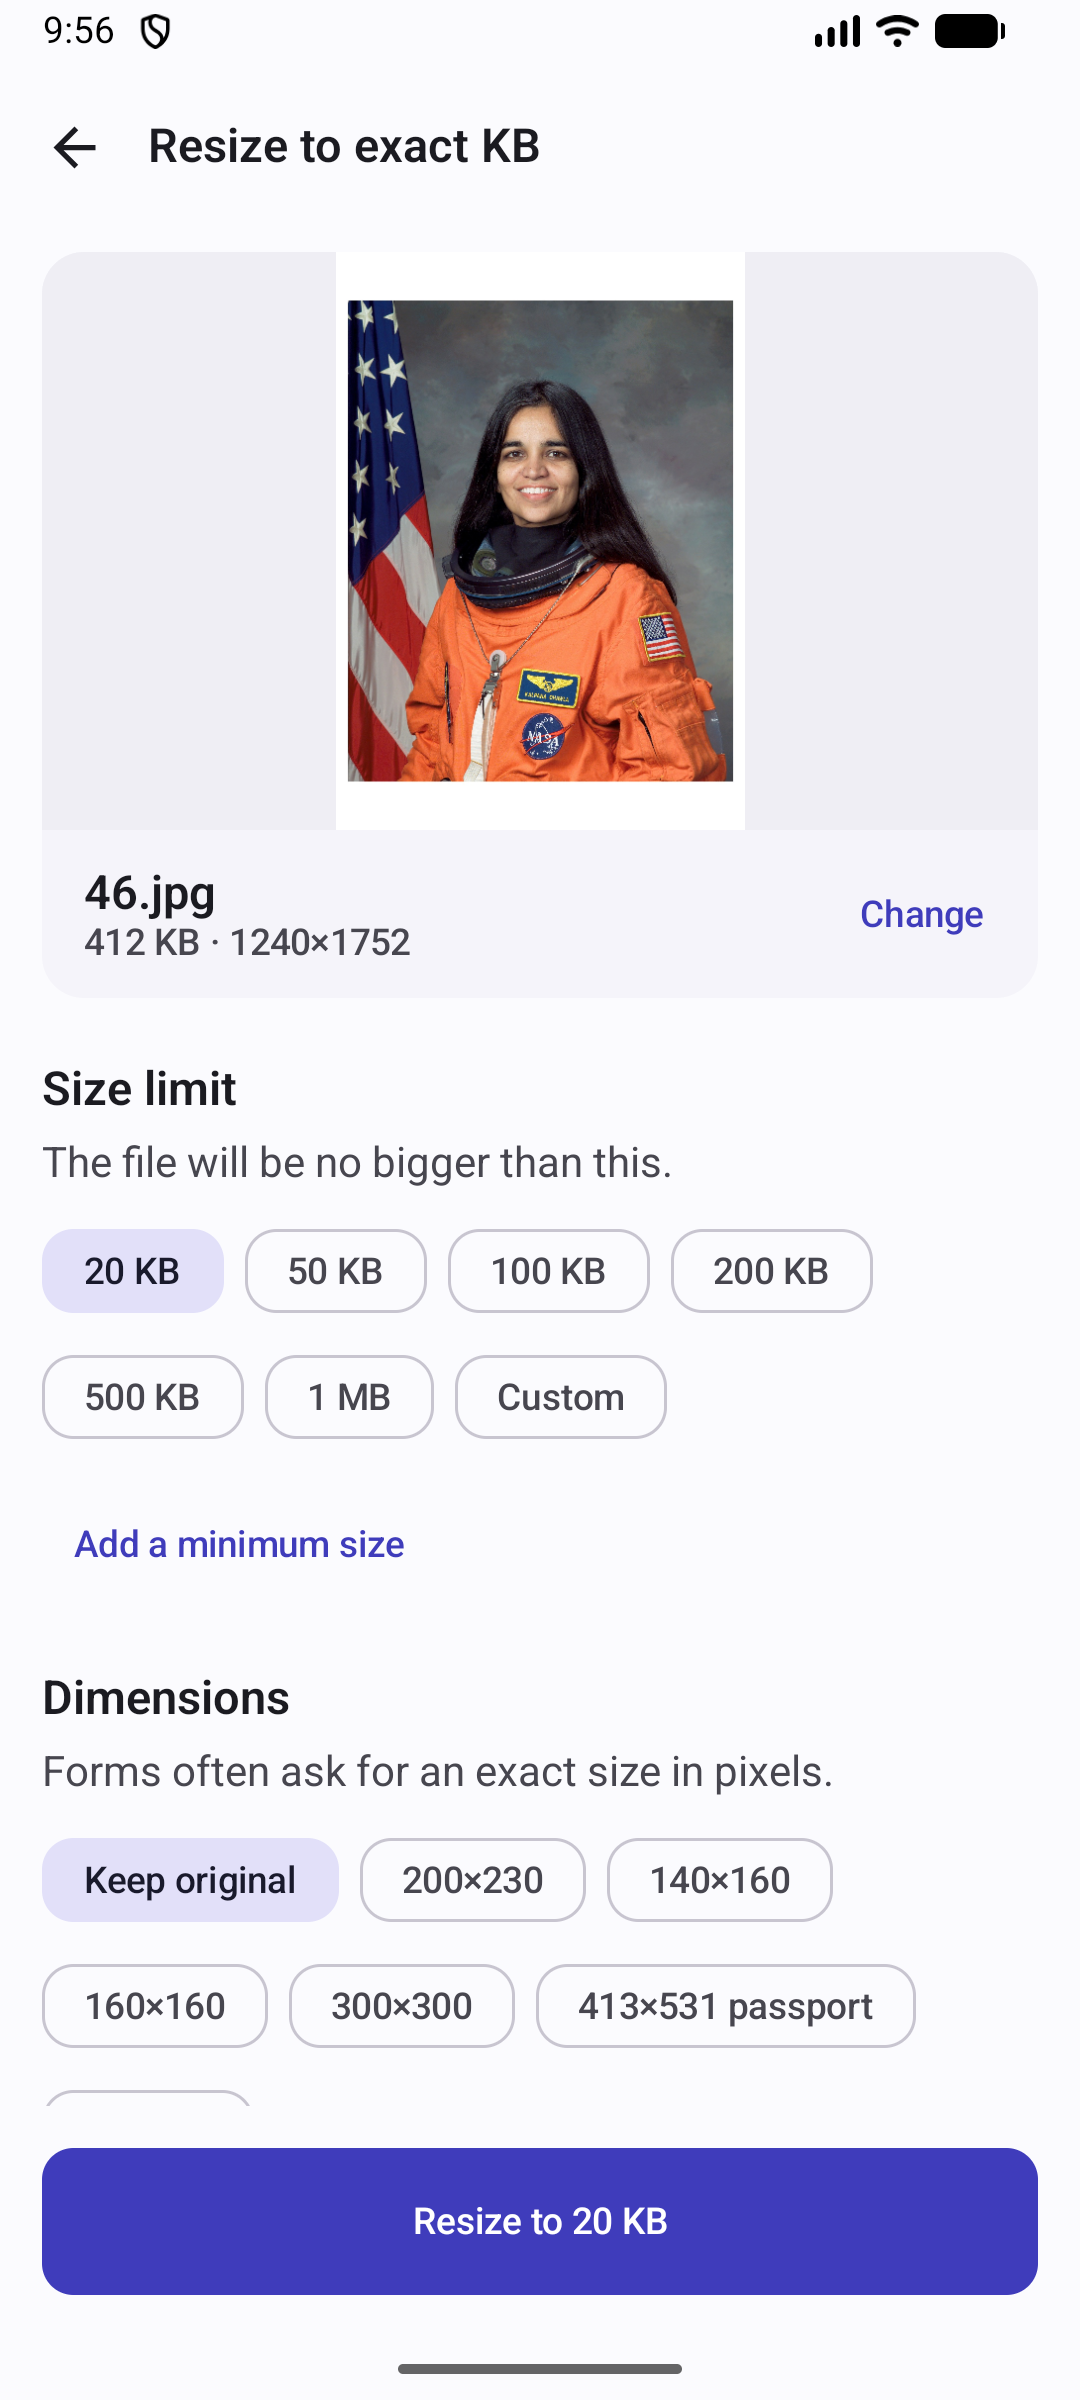
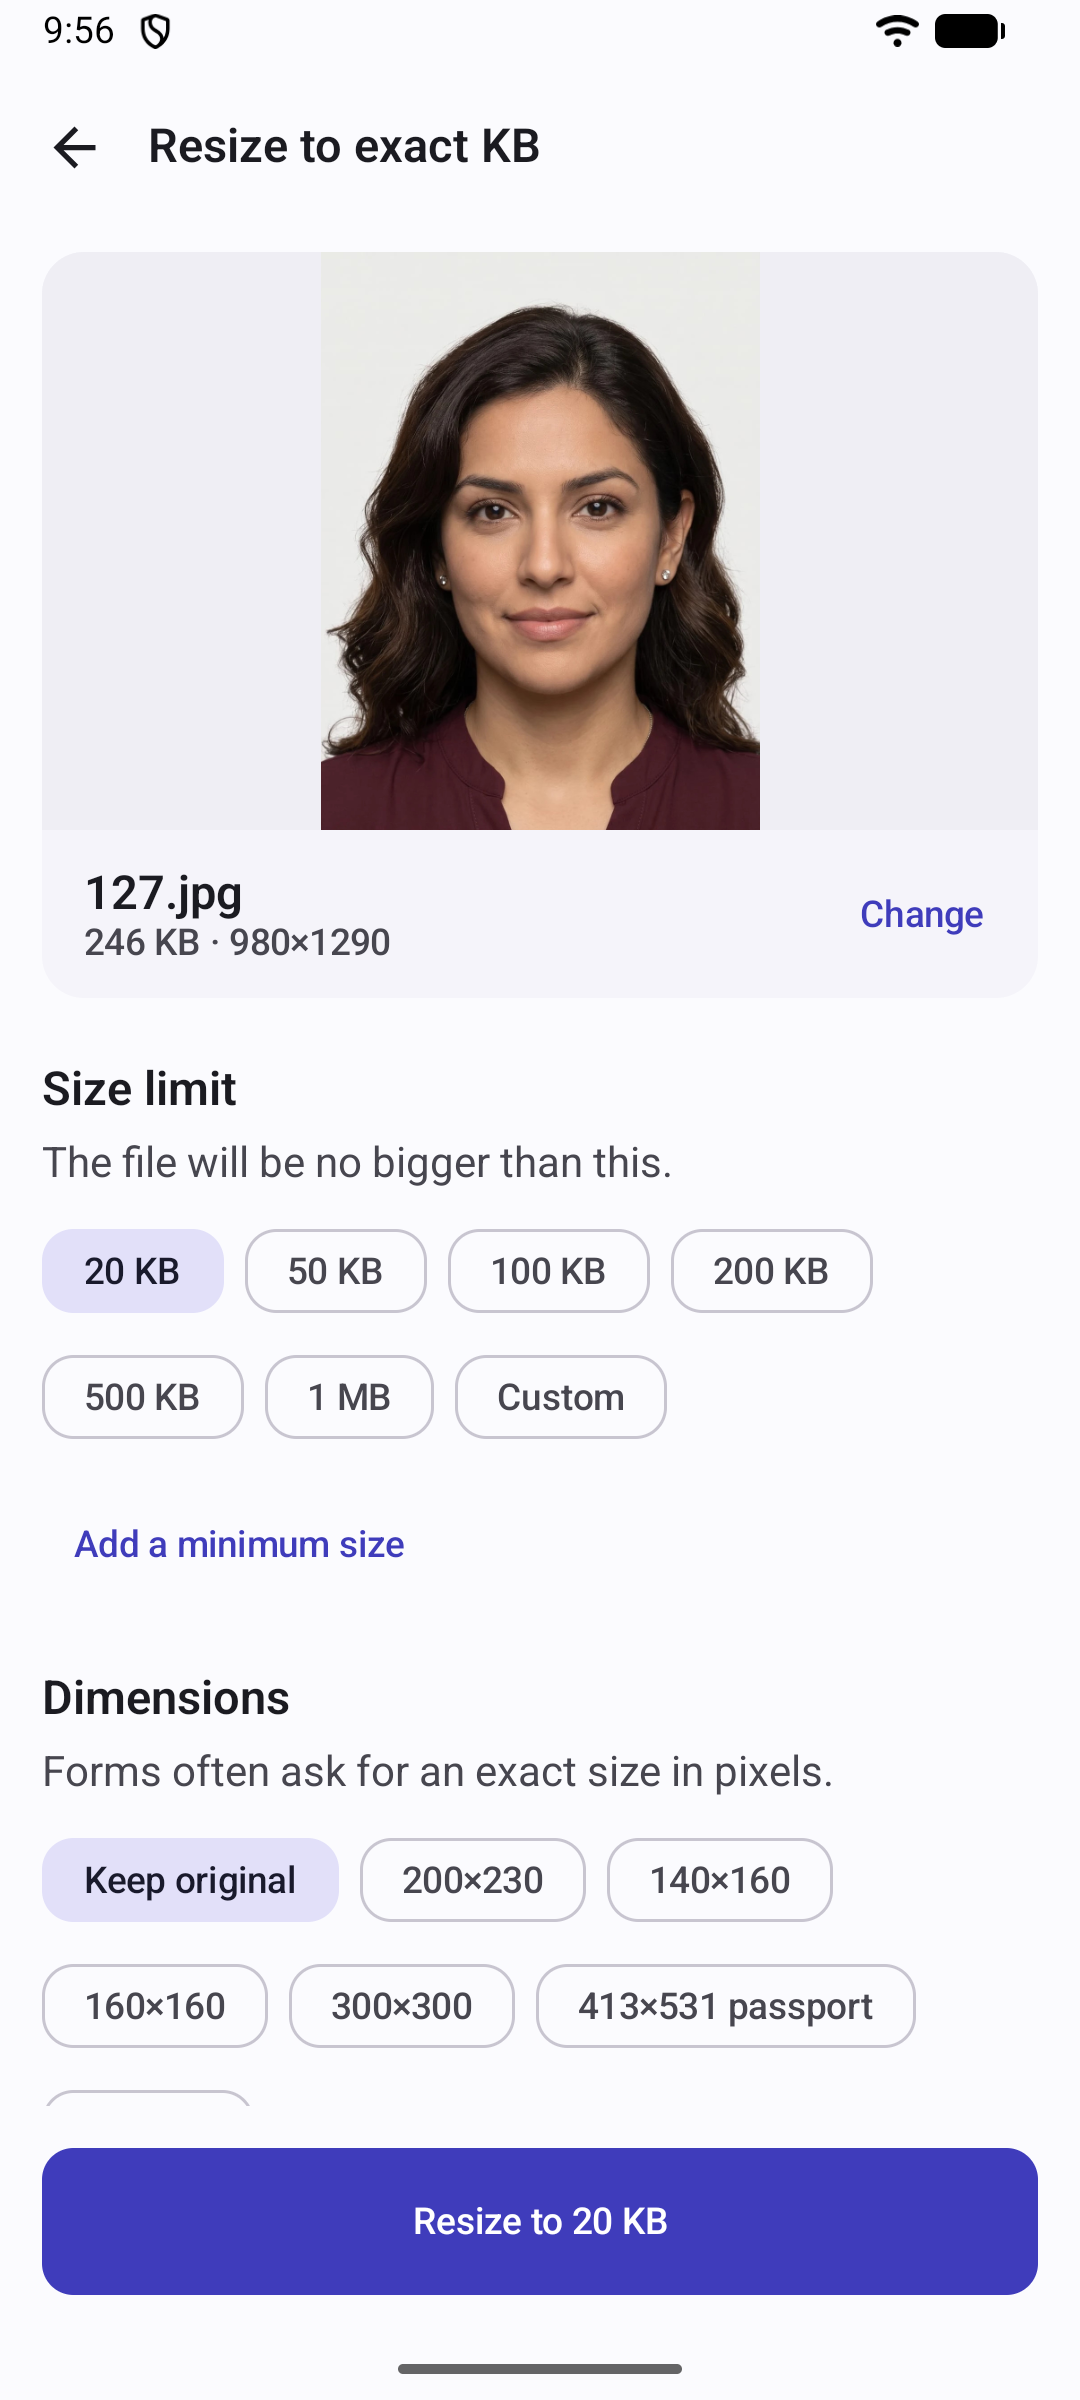
Retake store screenshots 2 and 3 without a famous face
They showed NASA's official portrait of Kalpana Chawla. The photograph is
public domain, but a well-known person's face advertising an app invites
a complaint. The new captures use a portrait the owner generated with
Gemini (corner mark cropped off), run through FormKit 1.0.3: 246 KB down
to 19 KB under a 20 KB limit.

Changed region(s): [[0.275, 0.0938, 0.7028, 0.3438], [0.0611, 0.3438, 0.3667, 0.4062], [0.7639, 0.0, 0.7944, 0.0312]]

diff --git a/docs/store-listing.md b/docs/store-listing.md
@@ -101,3 +101,10 @@ Wikimedia Commons, under CC0: no copyright, and no named person whose likeness t
 trading on. Any replacement needs both of those, not only a free licence — a store listing is
 advertising, which is where a photo of a recognisable person causes trouble even when the photograph
 itself is free to use.
+
+Screenshots 2 and 3 show a portrait the owner generated with Gemini for FormKit (November 2026),
+cropped to drop Gemini's corner mark: an AI image of nobody real, which no one else holds rights in.
+They replaced captures that used NASA's official
+portrait of Kalpana Chawla: public domain as a photograph, but a famous person's face selling an app.
+Characters from films or comics (Iron Man and the like) are worse still — the character itself is
+copyrighted and trademarked, whoever took the picture.
